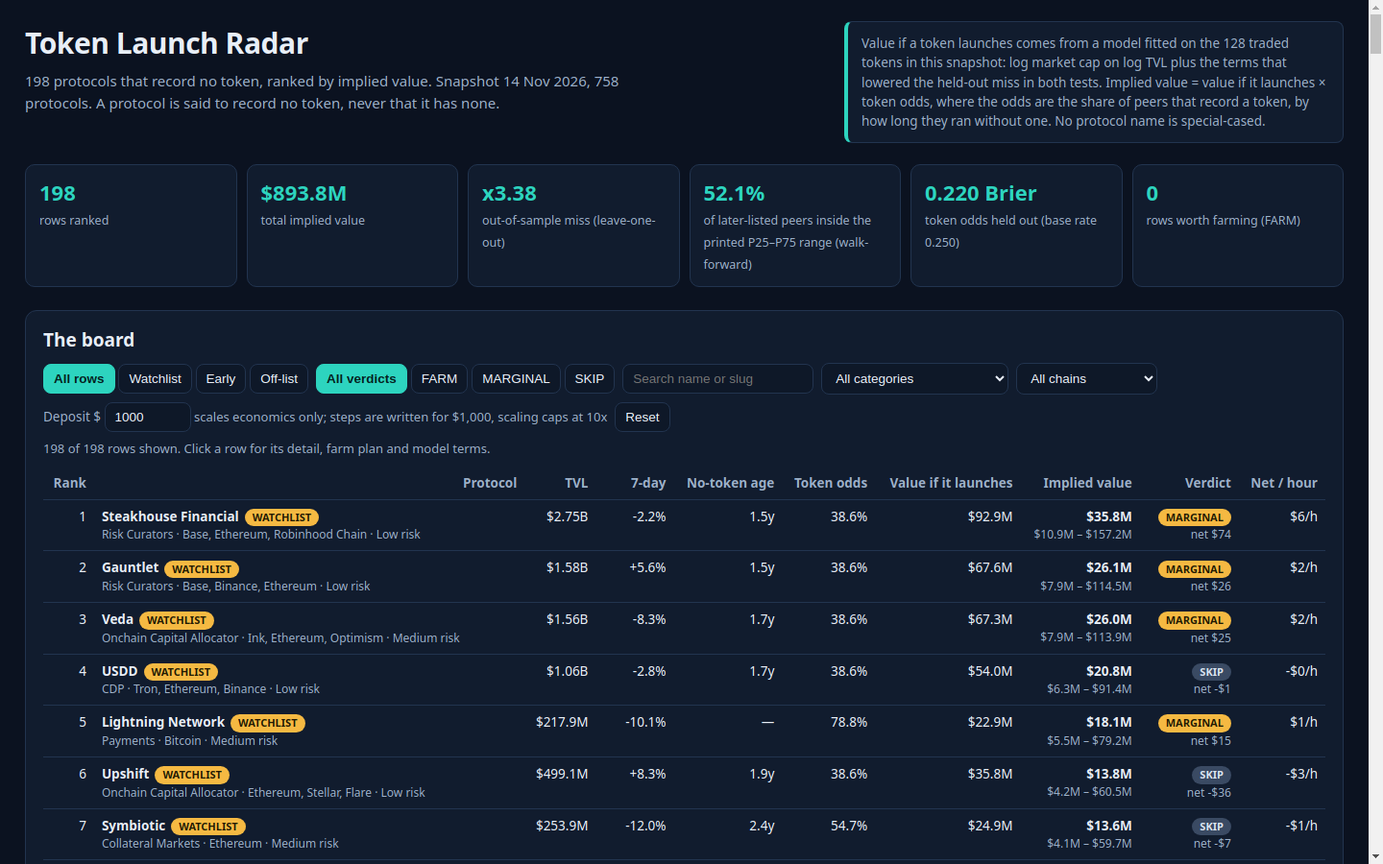
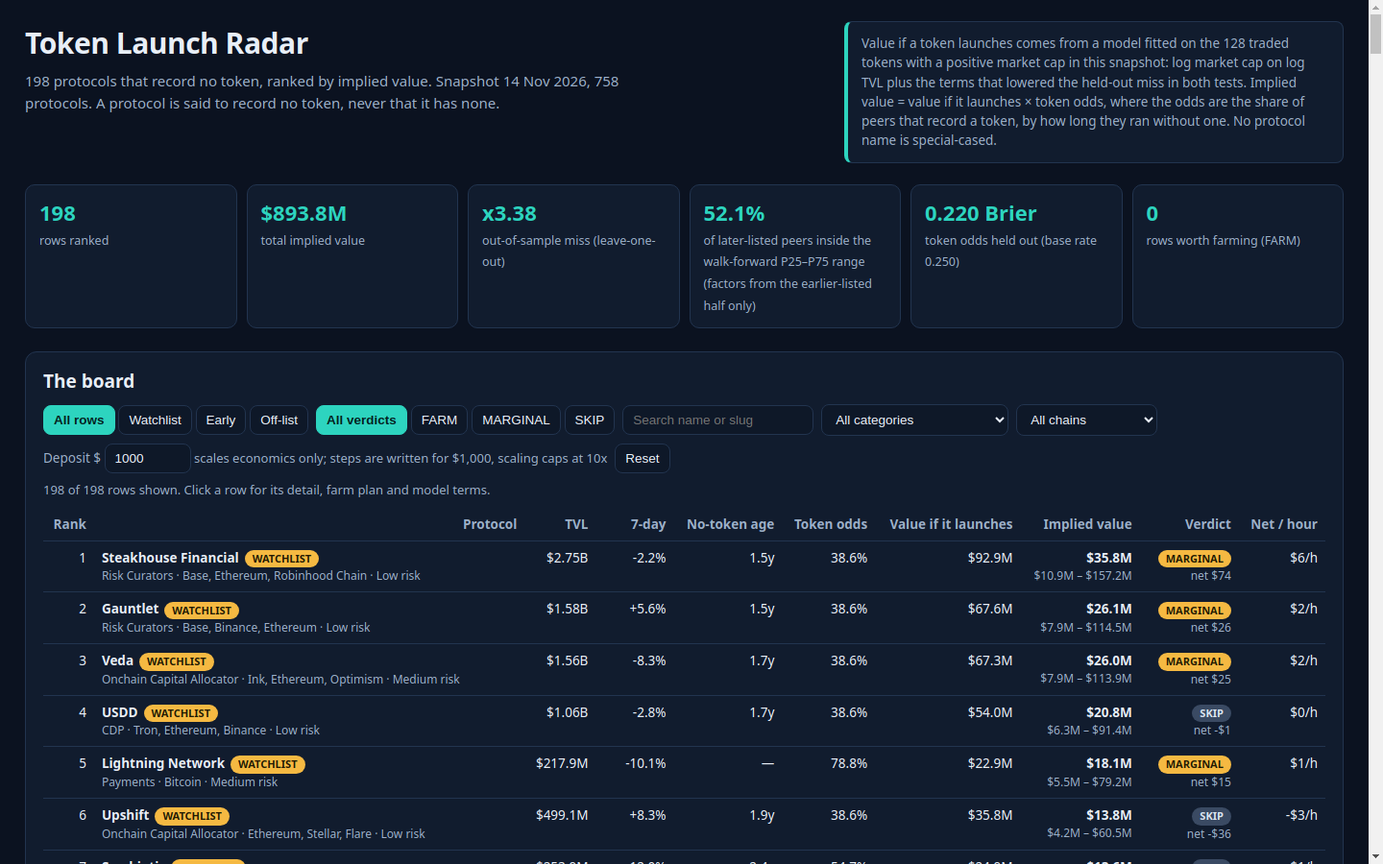
Polish token-radar-01: per-protocol farm steps for top 20, accurate range/fit wording, correct early/watchlist split, fresh out/

diff --git a/lib/model.ts b/lib/model.ts
@@ -294,9 +294,10 @@ function evaluate(traded: Protocol[], terms: TermName[], medAge: number): FitEva
 
 /**
  * Walk-forward range coverage: the share of LATER-listed peers whose
- * realised market cap falls inside the printed P25-P75 range. The range
+ * realised market cap falls inside the walk-forward P25-P75 range. The range
  * factors come from leave-one-out residuals INSIDE the earlier-listed
- * training half only, so no later peer's value leaks into its own range.
+ * training half only, so no later peer's value leaks into its own range,
+ * and they are not the printed full-sample P25-P75 factors.
  * This is the number the dashboard reports as range honesty; the
  * leave-one-out coverage over all traded tokens is reported separately
  * and labelled LOO.
@@ -645,7 +646,165 @@ const FALLBACK_STEPS: string[] = [
   'After 30 days, withdraw half the position from {name} and leave the rest working, then review the return earned against the gas paid; withdrawal gas costs about $3 to $8, about 15 minutes.',
 ];
 
+// --- per-protocol farm steps for the top 20 rows ---------------------------
+// The top 20 rows get steps written for THAT protocol, not its category
+// template: its real first chain (and second chain where the plan spans
+// two), its real product shape as implied by its category + chains, and
+// its own split of the $1,000 deposit. No step invents a feature: a Risk
+// Curator plan deposits into a curated vault on a chain the snapshot
+// lists for it; a CDP plan mints that protocol's own stablecoin; a
+// bridge plan bridges between the chains the snapshot lists; a CEX plan
+// opens an account and trades on the exchange. Rows 21-198 keep the
+// per-category templates above. Lightning Network (#5) is a payment
+// network, not a wallet-connect dapp: step 1 opens a Lightning channel
+// with part of the funded bitcoin, and no later step re-deposits the
+// $1,000 that step 1 funded.
+const TOP20_STEPS: Record<string, string[]> = {
+  'steakhouse-financial': [
+    'Create a fresh wallet, fund it with $1,000 of stablecoins on Base, and connect it to Steakhouse Financial; bridging and gas cost about $5 to $15, about 20 minutes to set up.',
+    'Deposit $700 into a Steakhouse Financial curated vault on Base and $300 into its curated vault on Ethereum, reading the published allocation of each vault before confirming; deposit gas costs about $3 to $8 per vault, about 20 minutes.',
+    'Leave both deposits allocated for at least 30 days, checking the allocation of each vault once a week and noting any reallocation Steakhouse Financial makes; each check takes about 10 minutes and costs nothing.',
+    'After two weeks, add a second $100 deposit to the Base vault so the position shows repeat use; gas costs about $3 to $8, about 10 minutes.',
+    'After 30 days, withdraw half the position from the Base vault and leave the Ethereum vault untouched, then compare the yield earned against the gas paid; withdrawal gas costs about $3 to $8, about 15 minutes.',
+  ],
+  gauntlet: [
+    'Create a fresh wallet, fund it with $1,000 of stablecoins on Base, and connect it to Gauntlet; bridging and gas cost about $5 to $15, about 20 minutes to set up.',
+    'Deposit $1,000 into a Gauntlet curated vault on Base, reading the published allocation and risk parameters of the vault before confirming; deposit gas costs about $3 to $8, about 20 minutes.',
+    'Leave the deposit allocated for at least 30 days, checking once a week whether Gauntlet reallocated the vault or changed its risk parameters and noting each change; each check takes about 10 minutes and costs nothing.',
+    'After two weeks, move $200 of the deposit to a Gauntlet curated vault on Ethereum so the position spans two chains; moving gas costs about $3 to $8, about 15 minutes.',
+    'After 30 days, withdraw half the position from Gauntlet and leave the rest allocated, then compare the yield earned against the gas paid; withdrawal gas costs about $3 to $8, about 15 minutes.',
+  ],
+  veda: [
+    'Create a fresh wallet, fund it with $1,000 of stablecoins on Ink, and connect it to Veda; bridging and gas cost about $5 to $15, about 20 minutes to set up.',
+    'Deposit $1,000 into the Veda allocation vault on Ink and confirm the allocation it publishes before depositing; deposit gas costs about $3 to $8, about 20 minutes.',
+    'Leave the deposit allocated for at least 30 days, reviewing the allocation report once a week and noting where Veda moved funds between Ink and Ethereum; each review takes about 10 minutes and costs nothing.',
+    'After two weeks, add a second $100 deposit to the same Veda vault on Ink so the position shows repeat use; gas costs about $3 to $8, about 10 minutes.',
+    'After 30 days, withdraw half the position from Veda and leave the rest allocated, then compare the return earned against the gas paid; withdrawal gas costs about $3 to $8, about 15 minutes.',
+  ],
+  usdd: [
+    'Create a fresh wallet, fund it with $1,000 of stablecoins on Tron, and connect it to USDD; bridging and gas cost about $5 to $15, about 20 minutes to set up.',
+    'Lock $1,000 of collateral in a USDD vault on Tron and mint $300 of USDD against it, keeping the loan below 30% of the collateral; minting gas costs about $4 to $10, about 20 minutes.',
+    'Check the USDD peg to $1 and the vault collateral ratio once a week for four weeks, topping the collateral up if its value falls; each check takes about 10 minutes and costs nothing.',
+    'Use $150 of the minted USDD once to buy TRX on Tron and keep the remaining minted USDD held; the swap gas costs about $3 to $8, about 10 minutes.',
+    'After 30 days, repay the minted USDD in full and unlock half the collateral, leaving the rest locked; repayment gas costs about $4 to $10, about 20 minutes.',
+  ],
+  'lightning-network': [
+    'Create a Lightning-capable wallet, fund it with $1,000 of bitcoin on Bitcoin, and open a Lightning payment channel with $800 of that bitcoin; the channel-opening fee is about $1 to $5 and opening takes about 20 minutes.',
+    'Send a $200 payment through the open Lightning channel to a merchant or to a second wallet you control, keeping the payment above $50; the routing fee is about $0 to $2 and the payment settles in seconds, about 5 minutes in total.',
+    'Send a second $200 payment through the same channel each week for three more weeks, $800 in total across the month, keeping a record of every payment; each routing fee is about $0 to $2, about 5 minutes per payment.',
+    'After two weeks, receive one $100 payment into the same channel so the record shows two-way use; receiving costs nothing and takes about 5 minutes.',
+    'After 30 days, close the channel and withdraw the remaining bitcoin balance back to the on-chain wallet, leaving nothing locked in the channel; the closing fee is about $1 to $5 and closing takes about 20 minutes.',
+  ],
+  upshift: [
+    'Create a fresh wallet, fund it with $1,000 of stablecoins on Ethereum, and connect it to Upshift; bridging and gas cost about $5 to $15, about 20 minutes to set up.',
+    'Deposit $600 into an Upshift allocation vault on Ethereum and $400 into its allocation vault on Monad, reading the published allocation of each vault before confirming; deposit gas costs about $3 to $8 per vault, about 20 minutes.',
+    'Leave both deposits allocated for at least 30 days, reviewing the allocation report once a week and noting where Upshift moved funds between Ethereum and Monad; each review takes about 10 minutes and costs nothing.',
+    'After two weeks, add a second $100 deposit to the Ethereum vault so the position shows repeat use; gas costs about $3 to $8, about 10 minutes.',
+    'After 30 days, withdraw half the position from the Ethereum vault and leave the Monad vault working, then compare the return earned against the gas paid; withdrawal gas costs about $3 to $8, about 15 minutes.',
+  ],
+  symbiotic: [
+    'Create a fresh wallet, fund it with $1,000 of stablecoins on Ethereum, and connect it to Symbiotic; bridging and gas cost about $5 to $15, about 20 minutes to set up.',
+    'Supply $800 of stablecoins as collateral to a Symbiotic vault on Ethereum, noting which network the vault secures before confirming; supply gas costs about $4 to $10, about 15 minutes.',
+    'Borrow $200 of stablecoins against the supplied collateral on Symbiotic and use it once, keeping the loan below 30% of the collateral so it cannot liquidate; borrowing gas costs about $4 to $10, about 15 minutes.',
+    'Return once a week for four weeks, repay $50 of the loan each week and re-supply the repaid stablecoins to Symbiotic; gas costs about $3 to $8 per week, about 15 minutes per week.',
+    'After 30 days, repay the loan in full on Symbiotic and withdraw half the supplied stablecoins, leaving the rest supplied; repayment and withdrawal gas costs about $4 to $10, about 20 minutes.',
+  ],
+  'plume-vaults': [
+    'Create a fresh wallet, fund it with $1,000 of stablecoins on Ethereum, and connect it to Plume Vaults; bridging and gas cost about $5 to $15, about 20 minutes to set up.',
+    'Deposit $1,000 into a Plume Vaults real-world-asset vault on Ethereum and hold the receipt token it issues, reading the asset backing report before confirming; deposit gas costs about $3 to $8, about 15 minutes.',
+    'Hold the position for at least 30 days, checking the asset backing report Plume Vaults publishes once a week; each check takes about 10 minutes and costs nothing.',
+    'After two weeks, move $200 of the position to a Plume Vaults vault on Plume Mainnet so the position spans two chains; moving gas costs about $3 to $8, about 15 minutes.',
+    'After 30 days, redeem half the position through Plume Vaults back into stablecoins and leave the rest working; redemption gas costs about $3 to $8, about 15 minutes.',
+  ],
+  lofty: [
+    'Create a fresh wallet, fund it with $1,000 of stablecoins on Algorand, and connect it to Lofty; bridging and gas cost about $5 to $15, about 20 minutes to set up.',
+    'Buy $1,000 of Lofty tokenized property tokens on Algorand, choosing a property and reading its rental yield before buying; buying gas costs about $3 to $8, about 20 minutes.',
+    'Hold the property tokens for at least 30 days, collecting the rental distribution Lofty pays once a week and keeping a record of each payout; each collection takes about 5 minutes and costs nothing.',
+    'After two weeks, buy a second $100 of Lofty property tokens in a different property so the position shows repeat use; gas costs about $3 to $8, about 10 minutes.',
+    'After 30 days, sell half the property tokens through Lofty back into stablecoins and leave the rest held; selling gas costs about $3 to $8, about 15 minutes.',
+  ],
+  'hive-protocol': [
+    'Bridge $1,000 of stablecoins from Ethereum onto BSquared using the Hive Protocol official bridge; the bridge fee is about $2 to $10 and the transfer takes about 10 to 20 minutes.',
+    'Swap $400 of the bridged stablecoins for the BSquared native asset on the largest decentralised exchange on Hive Protocol; swap fees and gas cost about $3 to $9, about 15 minutes.',
+    'Add the remaining $600 as liquidity to the largest stablecoin pool on Hive Protocol and hold the LP position; gas costs about $3 to $8, about 15 minutes to add and confirm.',
+    'Return once a week for four weeks and swap at least $100 each time on Hive Protocol, keeping a record of every transaction hash; gas costs about $3 to $8 per week, about 15 minutes per week.',
+    'After 30 days, remove half the liquidity from the pool on Hive Protocol and leave the rest working, then compare the fees earned against the gas paid; withdrawal gas costs about $3 to $8, about 15 minutes.',
+  ],
+  'nonce-capital': [
+    'Create a fresh wallet, fund it with $1,000 of stablecoins on Ethereum, and connect it to Nonce Capital; bridging and gas cost about $5 to $15, about 20 minutes to set up.',
+    'Deposit $1,000 into a Nonce Capital curated vault on Ethereum, reading the published allocation of the vault before confirming; deposit gas costs about $3 to $8, about 20 minutes.',
+    'Leave the deposit allocated for at least 30 days, checking the vault allocation once a week and noting any reallocation Nonce Capital makes; each check takes about 10 minutes and costs nothing.',
+    'After two weeks, move $300 of the deposit to a Nonce Capital curated vault on Optimism so the position spans two chains; moving gas costs about $3 to $8, about 15 minutes.',
+    'After 30 days, withdraw half the position from Nonce Capital and leave the rest allocated, then compare the yield earned against the gas paid; withdrawal gas costs about $3 to $8, about 15 minutes.',
+  ],
+  noble: [
+    'Bridge $1,000 of USDC from Ethereum onto Noble using the Noble official bridge; the bridge fee is about $2 to $10 and the transfer takes about 10 to 20 minutes.',
+    'Swap $400 of the bridged USDC for a second stablecoin on the largest decentralised exchange on Noble; swap fees and gas cost about $3 to $9, about 15 minutes.',
+    'Add the remaining $600 as liquidity to the largest USDC pool on Noble and hold the LP position; gas costs about $3 to $8, about 15 minutes to add and confirm.',
+    'Return once a week for four weeks and swap at least $100 each time on Noble, keeping a record of every transaction hash; gas costs about $3 to $8 per week, about 15 minutes per week.',
+    'After 30 days, remove half the liquidity from the pool on Noble and leave the rest working, then compare the fees earned against the gas paid; withdrawal gas costs about $3 to $8, about 15 minutes.',
+  ],
+  onre: [
+    'Create a fresh wallet, fund it with $1,000 of stablecoins on Solana, and connect it to OnRe; bridging and gas cost about $5 to $15, about 20 minutes to set up.',
+    'Deposit $1,000 into the OnRe reinsurance-backed vault on Solana and hold the receipt token it issues, reading the backing report before confirming; deposit gas costs about $3 to $8, about 15 minutes.',
+    'Hold the position for at least 30 days, checking the reinsurance backing report OnRe publishes once a week and noting the yield it reports; each check takes about 10 minutes and costs nothing.',
+    'After two weeks, add a second $100 deposit to the same OnRe vault on Solana so the position shows repeat use; gas costs about $3 to $8, about 10 minutes.',
+    'After 30 days, redeem half the position through OnRe back into stablecoins and leave the rest working; redemption gas costs about $3 to $8, about 15 minutes.',
+  ],
+  'bittensor-dtao': [
+    'Create a fresh wallet, fund it with $1,000 of stablecoins on Bittensor, and connect it to Bittensor dTAO; bridging and gas cost about $5 to $15, about 20 minutes to set up.',
+    'Swap $500 through Bittensor dTAO for a subnet token on Bittensor, keeping the trade above $100 so it counts as real volume; swap fees and gas cost about $3 to $9, about 15 minutes.',
+    'Add the remaining $500 as liquidity to the largest Bittensor dTAO pool on Bittensor and hold the LP position; gas costs about $3 to $8, about 15 minutes to add and confirm.',
+    'Return once a week for four weeks and swap at least $100 each time through Bittensor dTAO, trading a different subnet token each week; gas costs about $3 to $8 per week, about 15 minutes per week.',
+    'After 30 days, remove half the liquidity from the Bittensor dTAO pool and leave the rest working, then compare the fees earned against the gas paid; withdrawal gas costs about $3 to $8, about 15 minutes.',
+  ],
+  opentrade: [
+    'Create a fresh wallet, fund it with $1,000 of stablecoins on Avalanche, and connect it to OpenTrade; bridging and gas cost about $5 to $15, about 20 minutes to set up.',
+    'Deposit $1,000 into the OpenTrade tokenized Treasury position on Avalanche and hold the receipt token it issues, reading the Treasury backing report before confirming; deposit gas costs about $3 to $8, about 15 minutes.',
+    'Hold the position for at least 30 days, checking the Treasury backing report OpenTrade publishes once a week; each check takes about 10 minutes and costs nothing.',
+    'After two weeks, add a second $100 deposit to the same OpenTrade position on Avalanche so the position shows repeat use; gas costs about $3 to $8, about 10 minutes.',
+    'After 30 days, redeem half the position through OpenTrade back into stablecoins and leave the rest working; redemption gas costs about $3 to $8, about 15 minutes.',
+  ],
+  hyperithm: [
+    'Create a fresh wallet, fund it with $1,000 of stablecoins on Monad, and connect it to Hyperithm; bridging and gas cost about $5 to $15, about 20 minutes to set up.',
+    'Deposit $1,000 into a Hyperithm curated vault on Monad, reading the published allocation of the vault before confirming; deposit gas costs about $3 to $8, about 20 minutes.',
+    'Leave the deposit allocated for at least 30 days, checking the vault allocation once a week and noting any reallocation Hyperithm makes; each check takes about 10 minutes and costs nothing.',
+    'After two weeks, move $200 of the deposit to a Hyperithm curated vault on Ethereum so the position spans two chains; moving gas costs about $3 to $8, about 15 minutes.',
+    'After 30 days, withdraw half the position from Hyperithm and leave the rest allocated, then compare the yield earned against the gas paid; withdrawal gas costs about $3 to $8, about 15 minutes.',
+  ],
+  rockawayx: [
+    'Create a fresh wallet, fund it with $1,000 of stablecoins on Ethereum, and connect it to RockawayX; bridging and gas cost about $5 to $15, about 20 minutes to set up.',
+    'Deposit $600 into a RockawayX curated vault on Ethereum and $400 into its curated vault on Solana, reading the published allocation of each vault before confirming; deposit gas costs about $3 to $8 per vault, about 20 minutes.',
+    'Leave both deposits allocated for at least 30 days, checking the allocation of each vault once a week and noting any reallocation RockawayX makes; each check takes about 10 minutes and costs nothing.',
+    'After two weeks, add a second $100 deposit to the Ethereum vault so the position shows repeat use; gas costs about $3 to $8, about 10 minutes.',
+    'After 30 days, withdraw half the position from the Ethereum vault and leave the Solana vault working, then compare the yield earned against the gas paid; withdrawal gas costs about $3 to $8, about 15 minutes.',
+  ],
+  'k3-capital': [
+    'Create a fresh wallet, fund it with $1,000 of stablecoins on Monad, and connect it to K3 Capital; bridging and gas cost about $5 to $15, about 20 minutes to set up.',
+    'Deposit $1,000 into a K3 Capital curated vault on Monad, reading the published allocation of the vault before confirming; deposit gas costs about $3 to $8, about 20 minutes.',
+    'Leave the deposit allocated for at least 30 days, checking the vault allocation once a week and noting any reallocation K3 Capital makes; each check takes about 10 minutes and costs nothing.',
+    'After two weeks, move $250 of the deposit to a K3 Capital curated vault on Optimism so the position spans two chains; moving gas costs about $3 to $8, about 15 minutes.',
+    'After 30 days, withdraw half the position from K3 Capital and leave the rest allocated, then compare the yield earned against the gas paid; withdrawal gas costs about $3 to $8, about 15 minutes.',
+  ],
+  bigone: [
+    'Open an account with BigONE on its official website and finish its identity check; a custodial exchange takes no wallet connection, so this account is the only way in; the check costs nothing and takes about 10 to 30 minutes.',
+    'Deposit $1,000 of stablecoins into the BigONE account from a wallet; the deposit fee is about $0 to $10 and the funds arrive in about 10 minutes to one day.',
+    'Place one spot trade of $500 on BigONE, buying bitcoin with stablecoins, and leave the order filled rather than cancelled; the trading fee is about 0.1% of the trade, about $0.50, and the trade takes about 5 minutes.',
+    'Place a second spot trade of $250 on BigONE a week later, buying ether, and a third spot trade of $250 the week after, so the account shows repeat trading across the month; each trading fee is about 0.1%, about 5 minutes per trade.',
+    'After 30 days, withdraw $500 from BigONE back to a bank account or a wallet and leave the rest on the exchange, then compare the trading fees paid against the balance; the withdrawal fee is about $1 to $10 and the withdrawal takes about 10 minutes to one day.',
+  ],
+  'ink-bridge': [
+    'Create a fresh wallet, fund it with $1,000 of stablecoins on Ethereum, and connect it to Ink Bridge; bridging and gas cost about $5 to $15, about 20 minutes to set up.',
+    'Bridge $250 of stablecoins from Ethereum to Ink through Ink Bridge, keeping the transfer above $50; the bridge fee is about $2 to $6 and the transfer takes about 10 minutes.',
+    'Bridge a second $250 through Ink Bridge a week later, this time from Ink back to Ethereum, so the record shows two-way use; the bridge fee is about $2 to $6 and the transfer takes about 10 minutes.',
+    'Bridge a third $250 through Ink Bridge in week three and a fourth $250 in week four, $1,000 in total across the month; each bridge fee is about $2 to $6 and each transfer takes about 10 minutes.',
+    'After 30 days, bridge $500 back to Ethereum through Ink Bridge and leave the rest on Ink, then compare the bridge fees paid against the amounts moved; the fee is about $2 to $6 and the transfer takes about 10 minutes.',
+  ],
+};
+
 export function farmSteps(p: Protocol): string[] {
+  const override = TOP20_STEPS[p.slug];
+  if (override !== undefined) return [...override];
   const name = p.name;
   const chain = p.chains[0] ?? 'Ethereum';
   // The funding asset follows the chain: bitcoin on Bitcoin, stablecoins

diff --git a/dashboard/index.html b/dashboard/index.html
@@ -12,7 +12,7 @@
     <h1>Token Launch Radar</h1>
     <p class="sub">198 protocols that record no token, ranked by implied value. Snapshot 14 Nov 2026, 758 protocols. A protocol is said to record no token, never that it has none.</p>
   </div>
-  <div class="method-note">Value if a token launches comes from a model fitted on the 128 traded tokens in this snapshot: log market cap on log TVL plus the terms that lowered the held-out miss in both tests. Implied value = value if it launches &times; token odds, where the odds are the share of peers that record a token, by how long they ran without one. No protocol name is special-cased.</div>
+  <div class="method-note">Value if a token launches comes from a model fitted on the 128 traded tokens with a positive market cap in this snapshot: log market cap on log TVL plus the terms that lowered the held-out miss in both tests. Implied value = value if it launches &times; token odds, where the odds are the share of peers that record a token, by how long they ran without one. No protocol name is special-cased.</div>
 </header>
 
 <section class="kpis" id="kpis" aria-label="Key figures"></section>
@@ -85,7 +85,7 @@
   </div>
 </section>
 
-<footer><p class="fine">Verdicts in the board are at the $1,000 reference deposit, exactly as board.json states them; the deposit control scales the same formula and never a second one. The farm economics, one shared formula: fees = $60 + $15 &times; min(3, number of chains the protocol runs on); airdrop allocations go per active wallet, not pro-rata to TVL, so farmers as a group are assumed to receive 5% of the launch value split across 10,000 active wallets, scaled linearly with the deposit up to 10x the $1,000 reference; net = implied value &times; 0.05 / 10,000 &minus; fees, over 12 assumed farming hours a year. FARM when net is at least $25 an hour, MARGINAL when it is at least $0, otherwise SKIP. Off-list rows (wrapped, staked or bridged products and custodial exchanges) are never FARM: the radar does not present a product of a token that already trades as worth farming for a new token. Farm steps state what to do, what it costs and how long it takes, and are written for the $1,000 reference deposit. Range honesty is walk-forward: the share of later-listed peers whose realised market cap falls inside the printed P25–P75 range, with the range factors taken from the earlier-listed half only. Nothing here predicts whether or when a token launches.</p></footer>
+<footer><p class="fine">Verdicts in the board are at the $1,000 reference deposit, exactly as board.json states them; the deposit control scales the same formula and never a second one. The farm economics, one shared formula: fees = $60 + $15 &times; min(3, number of chains the protocol runs on); airdrop allocations go per active wallet, not pro-rata to TVL, so farmers as a group are assumed to receive 5% of the launch value split across 10,000 active wallets, scaled linearly with the deposit up to 10x the $1,000 reference; net = implied value &times; 0.05 / 10,000 &minus; fees, over 12 assumed farming hours a year. FARM when net is at least $25 an hour, MARGINAL when it is at least $0, otherwise SKIP. Off-list rows (wrapped, staked or bridged products and custodial exchanges) are never FARM: the radar does not present a product of a token that already trades as worth farming for a new token. Farm steps state what to do, what it costs and how long it takes, and are written for the $1,000 reference deposit. Range honesty is walk-forward: the share of later-listed peers whose realised market cap falls inside the walk-forward P25–P75 range, whose factors come from the earlier-listed half only and are not the printed full-sample P25–P75 range. Nothing here predicts whether or when a token launches.</p></footer>
 <script src="../data.js"></script>
 <script src="app.js"></script>
 </body>

diff --git a/dashboard/app.js b/dashboard/app.js
@@ -32,7 +32,7 @@
     [rows.length, 'rows ranked'],
     [money(R.total_implied_usd), 'total implied value'],
     ['x' + R.model.loo_miss.toFixed(2), 'out-of-sample miss (leave-one-out)'],
-    [pct(R.model.wf_range_coverage), 'of later-listed peers inside the printed P25–P75 range (walk-forward)'],
+    [pct(R.model.wf_range_coverage), 'of later-listed peers inside the walk-forward P25–P75 range (factors from the earlier-listed half only)'],
     [R.model.brier.toFixed(3) + ' Brier', 'token odds held out (base rate ' + R.model.brier_base.toFixed(3) + ')'],
     [R.farm_count, 'rows worth farming (FARM)'],
   ];
@@ -56,8 +56,8 @@
   var earlyMax = Math.max.apply(null, earlyRows.map(function (r) { return r.tvl_usd; }));
   el('accounting-note').textContent = 'Every one of the ' + a.total + ' protocols sits in exactly one group: ' +
     a.ranked + ' ranked + ' + a.with_token + ' recording a token + ' + a.left_out + ' left out. ' +
-    'The 158 early rows are the pre-token protocols below the $50,000,000 floor with the most TVL, plus the 40 watchlist protocols: ' +
-    'they run from $' + earlyMax.toLocaleString('en-US') + ' of TVL down to the early cutoff of $' +
+    'The board holds 198 rows: the 40 watchlist protocols plus the 158 early rows, the pre-token protocols below the $50,000,000 floor with the most TVL. ' +
+    'The early rows run from $' + earlyMax.toLocaleString('en-US') + ' of TVL down to the early cutoff of $' +
     a.early_cutoff_tvl.toLocaleString('en-US') + '.';
 
   // --- evidence tables
@@ -78,7 +78,7 @@
     '. Kept: ' + (keptTerms.join(', ') || 'none') + '. Dropped: ' + (droppedTerms.join(', ') || 'none') +
     '. Leave-one-out range factors P25 x' + R.model.loo_p25_factor + ', P75 x' + R.model.loo_p75_factor +
     '; ' + pct(R.model.range_coverage) + ' of held-out traded tokens fall inside their printed range (leave-one-out), and ' +
-    pct(R.model.wf_range_coverage) + ' of later-listed peers fall inside theirs (walk-forward). Median traded age ' + R.model.median_age_years + ' years.';
+    pct(R.model.wf_range_coverage) + ' of later-listed peers fall inside the walk-forward P25–P75 range, whose factors come from the earlier-listed half only. Median traded age ' + R.model.median_age_years + ' years.';
 
   // --- filter controls
   var cats = [...new Set(rows.map(function (r) { return r.category || '(none)'; }))].sort();

diff --git a/README.md b/README.md
@@ -4,8 +4,8 @@
 
 # Token Launch Radar
 
-A Node 22 program that reads the sealed DefiLlama snapshot (758 protocols, 14 Nov 2026), fits a value model on the 128 traded tokens in it, and ranks 198 protocols that record no token — the 40 watchlist protocols plus the 158 early pre-token protocols below the $50M floor with the most TVL — by implied value. A protocol records no token only when both its gecko_id and symbol are null (342 of 758); the 416 that record a token include 144 carrying a recorded market cap, listed on the dashboard with their realised values.
+A Node 22 program that reads the sealed DefiLlama snapshot (758 protocols, 14 Nov 2026), fits a value model on the 128 traded tokens with a positive market cap in it, and ranks 198 protocols that record no token — the 40 watchlist protocols plus the 158 early pre-token protocols below the $50M floor with the most TVL — by implied value. A protocol records no token only when both its gecko_id and symbol are null (342 of 758); the 416 that record a token include 144 carrying a recorded market cap, listed on the dashboard with their realised values.
 
-**Model:** log market cap on log TVL plus TVL curvature `(log TVL)^2`. Candidate terms (7-day growth, no-token age, category median) were tested and dropped: each raised the held-out miss in at least one test. Held-out evidence, computed by the program and shown on the dashboard: leave-one-out miss x3.38 and walk-forward miss x2.61 (earlier-listed tokens price later-listed ones), a leave-one-out P25–P75 range whose walk-forward coverage is 52.1% of later-listed peers (leave-one-out coverage 50.8%), and a token-odds Brier score of 0.220 against a base rate of 0.250. Token odds are the peers' own record — the share of protocols of the same no-token age that record a token. Implied value = value if a token launches × token odds. Every row carries a concrete 5-step farm plan with costs and times, written per category for a $1,000 reference deposit, and a FARM / MARGINAL / SKIP verdict with net value after fees and net value per hour. At the stated economics no row clears the $25/hour FARM bar, so the honest verdict split is 0 FARM / 4 MARGINAL / 194 SKIP; off-list rows (wrapped, staked or bridged products and custodial exchanges) are never FARM. The dashboard reads verdicts from board.json and scales them with the same formula only when the deposit control moves. Verification numbers only prove the program runs; they do not predict a final rank.
+**Model:** log market cap on log TVL plus TVL curvature `(log TVL)^2`. Candidate terms (7-day growth, no-token age, category median) were tested and dropped: each raised the held-out miss in at least one test. Held-out evidence, computed by the program and shown on the dashboard: leave-one-out miss x3.38 and walk-forward miss x2.61 (earlier-listed tokens price later-listed ones), a leave-one-out P25–P75 range whose walk-forward coverage is 52.1% of later-listed peers against the walk-forward range factors from the earlier-listed half only (leave-one-out coverage 50.8%), and a token-odds Brier score of 0.220 against a base rate of 0.250. Token odds are the peers' own record — the share of protocols of the same no-token age that record a token. Implied value = value if a token launches × token odds. Every row carries a concrete 5-step farm plan with costs and times, written per category for a $1,000 reference deposit, with the top 20 rows written per protocol instead of per category, and a FARM / MARGINAL / SKIP verdict with net value after fees and net value per hour. At the stated economics no row clears the $25/hour FARM bar, so the honest verdict split is 0 FARM / 4 MARGINAL / 194 SKIP; off-list rows (wrapped, staked or bridged products and custodial exchanges) are never FARM. The dashboard reads verdicts from board.json and scales them with the same formula only when the deposit control moves. Verification numbers only prove the program runs; they do not predict a final rank.
 
 Run it with `mkdir -p out && MAKEFUN_OUTPUT_DIR=out node main.ts --input <snapshot.json>`. Standard library only, no network at run time.
